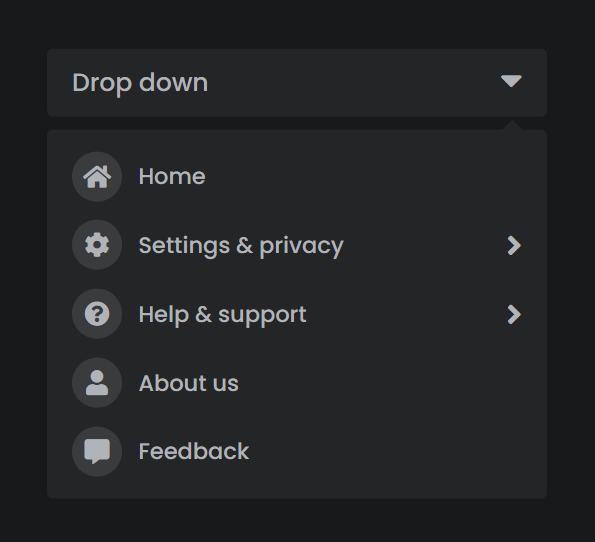
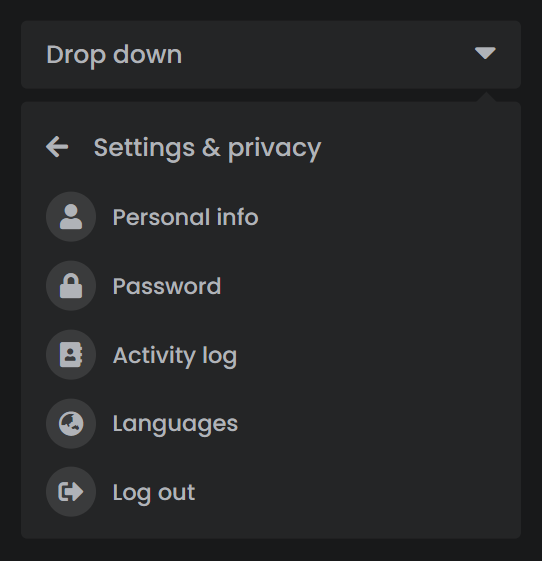
Add screenshots

diff --git a/dropdown-menu-slidely/README.md b/dropdown-menu-slidely/README.md
@@ -1,7 +1,8 @@
 # Dropdown Menu Slidely
 
 ## Screenshot
-![Screenshot](screenshot.png 'Screenshot of dropdown menu slidely')
+![Screenshot](./screenshots/screenshot-1.png 'Screenshot 1 of dropdown menu slidely')
+![Screenshot](./screenshots/screenshot-2.png 'Screenshot 2 of dropdown menu slidely')
 
 ## Technologies Used:
 - HTML
